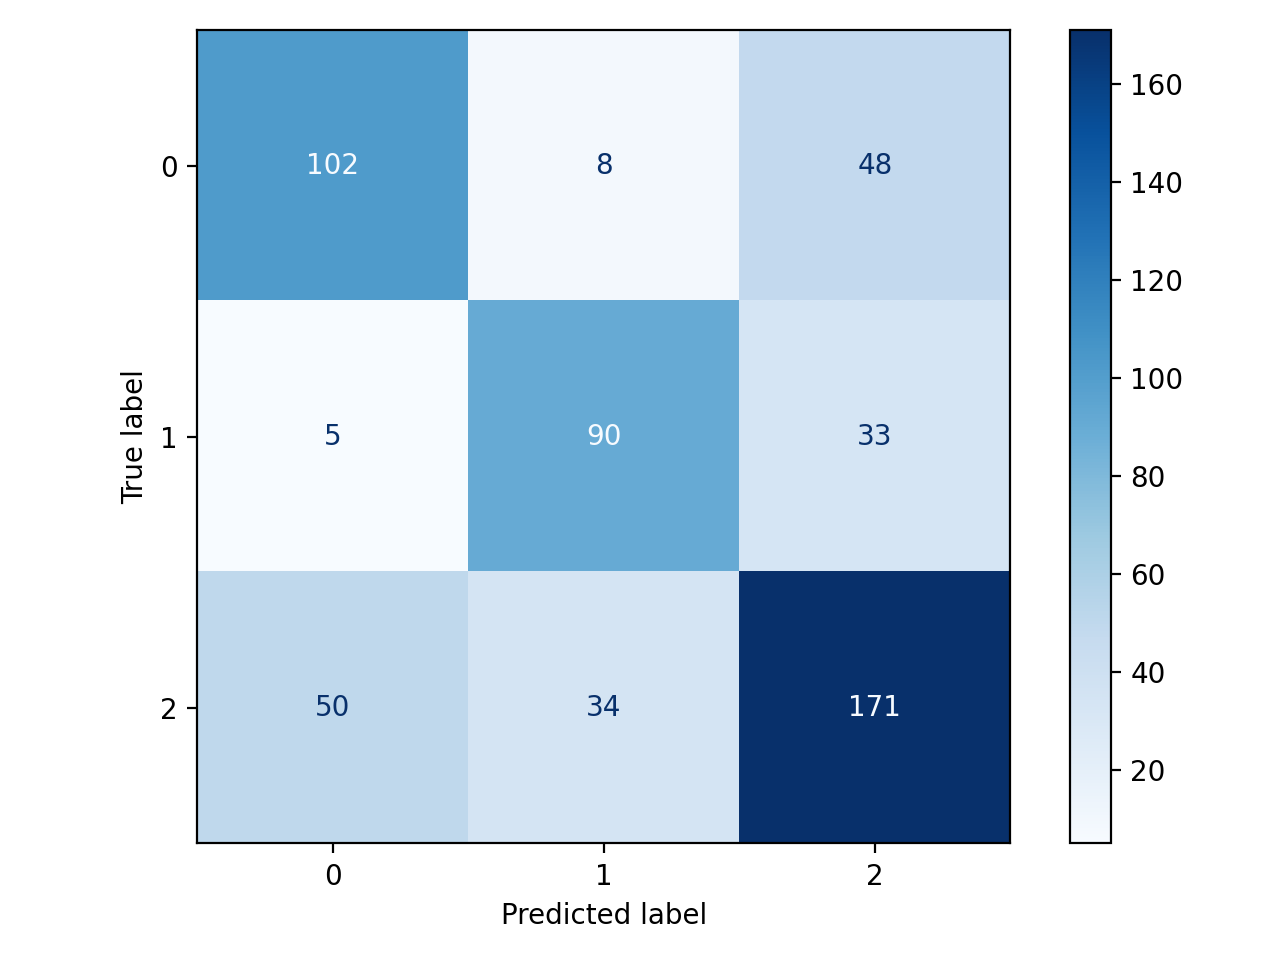
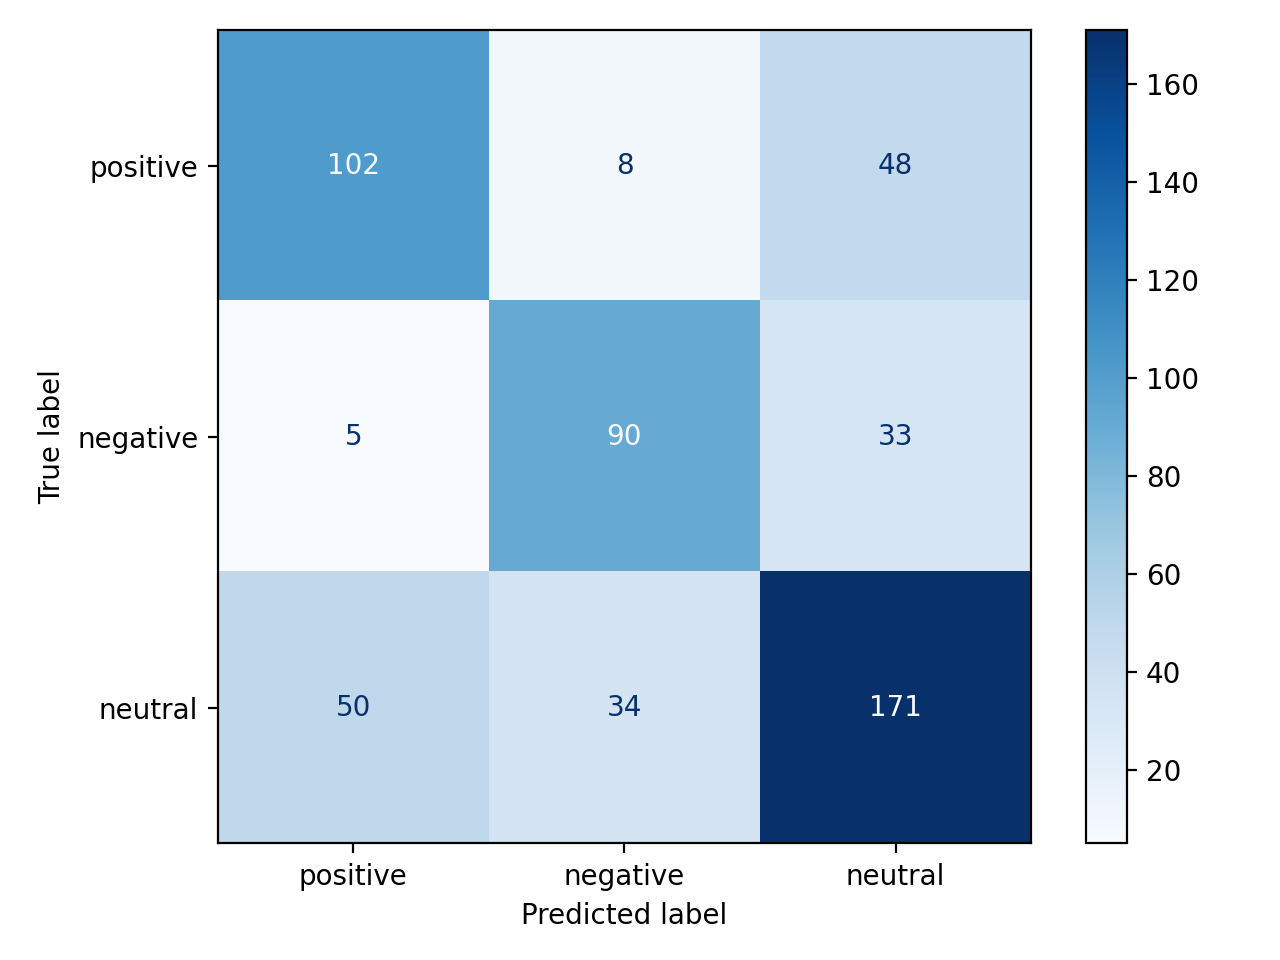
Add class names, tuning, significance tests; fix XLM-R 10% result

diff --git a/analyze.py b/analyze.py
@@ -1,30 +1,47 @@
-"""Builds results table, learning curve, confusion matrix, and wrong-prediction sample."""
-import glob, json, pandas as pd, matplotlib
+"""Builds the results tables, learning curve, confusion matrix and an error sample."""
+import glob, json, os, pandas as pd, matplotlib
 matplotlib.use("Agg")
 import matplotlib.pyplot as plt
 from sklearn.metrics import confusion_matrix, classification_report, ConfusionMatrixDisplay
 
 rows = [json.load(open(f)) for f in glob.glob("results/*.json")]
-df = pd.DataFrame(rows).sort_values(["model", "frac"])
+df = pd.DataFrame(rows)
+for col, default in [("seed", 42), ("lr", 2e-5), ("epochs", 4)]:
+    if col not in df: df[col] = default
+    df[col] = df[col].fillna(default)
+df = df.sort_values(["model", "frac", "lr", "epochs", "seed"])
 df.to_csv("results/summary.csv", index=False)
-print(df.to_string(index=False))
+
+default = df[(df.lr == 2e-5) & (df.epochs == 4) & (df.seed == 42)]
+print("== Default settings, seed 42 ==")
+print(default[["model", "frac", "acc", "macro_f1"]].to_string(index=False))
+
+tuned = df[(df.lr != 2e-5) | (df.epochs != 4)]
+if len(tuned):
+    cols = [c for c in ["model", "frac", "lr", "epochs", "val_macro_f1", "acc", "macro_f1"] if c in tuned]
+    print("\n== Tuned runs (choose by val_macro_f1, then report test) ==")
+    print(tuned[cols].to_string(index=False))
 
 plt.figure(figsize=(6, 4))
 for m in ["mbert", "xlmr", "indicbert"]:
-    d = df[(df.model == m) & (df.get("seed", 42).fillna(42) == 42)]
+    d = default[default.model == m]
     if len(d): plt.plot(d.frac * 100, d.macro_f1, marker="o", label=m)
 plt.xlabel("Training data (%)"); plt.ylabel("Macro-F1"); plt.legend(); plt.grid(alpha=.3)
 plt.tight_layout(); plt.savefig("results/learning_curve.png", dpi=200)
 
-full = df[df.frac == 1.0]
-full = full[full.model.isin(["mbert", "xlmr", "indicbert"])]
+names = {"0": "C0", "1": "C1", "2": "C2"}
+if os.path.exists("class_names.json"):
+    names.update(json.load(open("class_names.json")))
+labels = [names[str(i)] for i in range(3)]
+
+full = default[(default.frac == 1.0) & default.model.isin(["mbert", "xlmr", "indicbert"])]
 if len(full):
     best = full.sort_values("macro_f1").iloc[-1].model
     p = pd.read_csv(f"results/{best}_1.0_preds.csv")
     print("\nBest model:", best)
-    print(classification_report(p.true, p.pred))
-    ConfusionMatrixDisplay(confusion_matrix(p.true, p.pred)).plot(cmap="Blues")
+    print(classification_report(p.true, p.pred, target_names=labels))
+    ConfusionMatrixDisplay(confusion_matrix(p.true, p.pred), display_labels=labels).plot(cmap="Blues")
     plt.tight_layout(); plt.savefig("results/confusion_matrix.png", dpi=200)
     p[p.true != p.pred].sample(min(50, (p.true != p.pred).sum()), random_state=1)\
         .to_csv("results/errors_to_analyze.csv", index=False)
-    print("Wrote results/errors_to_analyze.csv - read these and group the error types.")
+    print("Wrote results/errors_to_analyze.csv")

diff --git a/significance.py b/significance.py
@@ -1,0 +1,38 @@
+"""Bootstrap 95% CIs, pairwise McNemar tests, and error rate by sentence length (full-data, seed 42)."""
+import os, numpy as np, pandas as pd
+from scipy.stats import binomtest
+from sklearn.metrics import f1_score
+
+MODELS = [m for m in ["mbert", "xlmr", "indicbert"] if os.path.exists(f"results/{m}_1.0_preds.csv")]
+P = {m: pd.read_csv(f"results/{m}_1.0_preds.csv") for m in MODELS}
+out = []
+def say(s=""):
+    print(s); out.append(s)
+
+rng = np.random.default_rng(0)
+say("Bootstrap 95% confidence intervals (1000 resamples of the test set)")
+for m in MODELS:
+    t, p = P[m].true.values, P[m].pred.values
+    accs, f1s = [], []
+    for _ in range(1000):
+        i = rng.integers(0, len(t), len(t))
+        accs.append((t[i] == p[i]).mean()); f1s.append(f1_score(t[i], p[i], average="macro"))
+    say(f"{m:10s} acc {np.mean(t == p):.3f} [{np.percentile(accs, 2.5):.3f}, {np.percentile(accs, 97.5):.3f}]   "
+        f"macro-F1 {f1_score(t, p, average='macro'):.3f} [{np.percentile(f1s, 2.5):.3f}, {np.percentile(f1s, 97.5):.3f}]")
+
+say("\nPairwise McNemar exact test (accuracy, same test examples)")
+for i, a in enumerate(MODELS):
+    for b in MODELS[i + 1:]:
+        oa, ob = (P[a].true == P[a].pred).values, (P[b].true == P[b].pred).values
+        n01, n10 = int((oa & ~ob).sum()), int((~oa & ob).sum())
+        pv = binomtest(n01, n01 + n10, 0.5).pvalue if n01 + n10 else 1.0
+        say(f"{a} vs {b}: only-{a} correct={n01}, only-{b} correct={n10}, p={pv:.4f}")
+
+best = max(MODELS, key=lambda m: f1_score(P[m].true, P[m].pred, average="macro"))
+d = P[best].copy()
+d["words"] = d.text.astype(str).str.split().str.len()
+d["bucket"] = pd.cut(d.words, [0, 8, 14, 1000], labels=["short (<=8 words)", "medium (9-14)", "long (15+)"])
+say(f"\nError rate by sentence length, {best}")
+g = d.groupby("bucket", observed=True).apply(lambda x: pd.Series({"n": len(x), "error_rate": (x.true != x.pred).mean()}))
+say(g.round(3).to_string())
+open("results/significance.txt", "w").write("\n".join(out))

diff --git a/finetune.py b/finetune.py
@@ -13,7 +13,12 @@ MODELS = {
 }
 name, frac = sys.argv[1], float(sys.argv[2])
 seed = int(sys.argv[3]) if len(sys.argv) > 3 else 42
+# optional overrides for tuning:  LR=5e-5 EPOCHS=10 python finetune.py xlmr 0.1
+lr = float(os.environ.get("LR", "2e-5"))
+epochs = int(os.environ.get("EPOCHS", "4"))
 tag = f"{name}_{frac}" + (f"_s{seed}" if seed != 42 else "")
+if "LR" in os.environ or "EPOCHS" in os.environ:
+    tag += f"_lr{os.environ.get('LR', '2e-5')}_ep{epochs}"
 
 tr = pd.read_csv("data/train.csv").sample(frac=frac, random_state=seed)
 va, te = pd.read_csv("data/validation.csv"), pd.read_csv("data/test.csv")
@@ -40,8 +45,8 @@ def metrics(p):
     return {"acc": accuracy_score(p.label_ids, preds),
             "macro_f1": f1_score(p.label_ids, preds, average="macro")}
 
-args = TrainingArguments(output_dir=f"results/tmp_{tag}", num_train_epochs=4,
-    per_device_train_batch_size=int(os.environ.get('BATCH','8')), per_device_eval_batch_size=16, gradient_accumulation_steps=2, learning_rate=2e-5,
+args = TrainingArguments(output_dir=f"results/tmp_{tag}", num_train_epochs=epochs,
+    per_device_train_batch_size=int(os.environ.get('BATCH','8')), per_device_eval_batch_size=16, gradient_accumulation_steps=2, learning_rate=lr,
     eval_strategy="epoch", save_strategy="no", seed=seed,
     fp16=torch.cuda.is_available(), report_to="none")
 
@@ -50,7 +55,9 @@ trainer = Trainer(model=model, args=args, train_dataset=enc(tr), eval_dataset=en
 trainer.train()
 out = trainer.predict(enc(te))
 preds = np.argmax(out.predictions, axis=1)
-res = {"model": name, "frac": frac, "seed": seed, **metrics(out)}
+val = trainer.evaluate()   # validation score, used to choose settings
+res = {"model": name, "frac": frac, "seed": seed, "lr": lr, "epochs": epochs,
+       "val_macro_f1": val["eval_macro_f1"], **metrics(out)}
 print(res)
 json.dump(res, open(f"results/{tag}.json", "w"))
 pd.DataFrame({"text": te.text, "true": te.label, "pred": preds}).to_csv(f"results/{tag}_preds.csv", index=False)

diff --git a/seeds_stats.py b/seeds_stats.py
@@ -1,0 +1,23 @@
+"""Mean +/- std over seeds (full-data runs) and a McNemar test, IndicBERT vs XLM-R."""
+import json, os, numpy as np, pandas as pd
+from scipy.stats import binomtest
+
+SEEDS = [42, 1, 2]
+def tag(m, s): return f"{m}_1.0" + ("" if s == 42 else f"_s{s}")
+
+print("Model        acc (mean +/- std)    macro-F1 (mean +/- std)   n_seeds")
+for m in ["mbert", "xlmr", "indicbert"]:
+    rs = [json.load(open(f"results/{tag(m, s)}.json")) for s in SEEDS if os.path.exists(f"results/{tag(m, s)}.json")]
+    if not rs: continue
+    a = np.array([r["acc"] for r in rs]); f = np.array([r["macro_f1"] for r in rs])
+    print(f"{m:10s}   {a.mean():.3f} +/- {a.std(ddof=1) if len(a)>1 else 0:.3f}      {f.mean():.3f} +/- {f.std(ddof=1) if len(f)>1 else 0:.3f}          {len(rs)}")
+
+print("\nMcNemar exact test, IndicBERT vs XLM-R (same test examples):")
+for s in SEEDS:
+    pa, pb = f"results/{tag('indicbert', s)}_preds.csv", f"results/{tag('xlmr', s)}_preds.csv"
+    if not (os.path.exists(pa) and os.path.exists(pb)): continue
+    a, b = pd.read_csv(pa), pd.read_csv(pb)
+    ok_a, ok_b = (a.true == a.pred).values, (b.true == b.pred).values
+    n01, n10 = int((ok_a & ~ok_b).sum()), int((~ok_a & ok_b).sum())
+    p = binomtest(n01, n01 + n10, 0.5).pvalue if n01 + n10 else 1.0
+    print(f"seed {s}: IndicBERT-only correct={n01}, XLM-R-only correct={n10}, p={p:.3f}")

diff --git a/check_labels.py b/check_labels.py
@@ -1,0 +1,12 @@
+"""Prints label counts and 10 random training sentences per label, so you can decide what each class means."""
+import pandas as pd
+d = pd.read_csv("data/train.csv")
+print(d.label.value_counts().sort_index(), "\n")
+print("Label ids in the CSV are 7, 8, 9. Models use 0, 1, 2 in the same order (7->0, 8->1, 9->2).\n")
+for i, l in enumerate(sorted(d.label.unique())):
+    print(f"=== CSV label {l}  (class id {i}) ===")
+    for t in d[d.label == l].text.sample(10, random_state=1):
+        print("  ", t[:120])
+    print()
+print("Now create class_names.json, for example:")
+print('  echo \'{"0":"<name for 7>","1":"<name for 8>","2":"<name for 9>"}\' > class_names.json')

diff --git a/READING_LIST.md b/READING_LIST.md
@@ -1,0 +1,24 @@
+# Starter reading list (verify every entry on Google Scholar before citing)
+
+I wrote these from memory. Check title, authors, venue, and year yourself before adding them to the paper.
+
+## Models and tools
+1. Devlin et al. (2019). BERT: Pre-training of Deep Bidirectional Transformers for Language Understanding. NAACL-HLT.
+2. Conneau et al. (2020). Unsupervised Cross-lingual Representation Learning at Scale (XLM-R). ACL.
+3. Doddapaneni et al. (2023). Towards Leaving No Indic Language Behind: Building Monolingual Corpora, Benchmark and Models for Indic Languages (IndicBERT v2, IndicXTREME). ACL.
+4. Kakwani et al. (2020). IndicNLPSuite: Monolingual Corpora, Evaluation Benchmarks and Pre-trained Multilingual Language Models for Indian Languages (IndicGLUE, IndicBERT). Findings of EMNLP.
+5. Khanuja et al. (2021). MuRIL: Multilingual Representations for Indian Languages. arXiv.
+6. Wolf et al. (2020). Transformers: State-of-the-Art Natural Language Processing. EMNLP (System Demonstrations).
+
+## Multilingual transfer and low-resource languages
+7. Pires, Schlinger, Garrette (2019). How Multilingual is Multilingual BERT? ACL.
+8. Wu and Dredze (2019). Beto, Bentz, Becas: The Surprising Cross-Lingual Effectiveness of BERT. EMNLP-IJCNLP.
+9. Joshi et al. (2020). The State and Fate of Linguistic Diversity and Inclusion in the NLP World. ACL.
+
+## Telugu sentiment (check the dataset source)
+10. Mukku and Mamidi (2017). ACTSA: Annotated Corpus for Telugu Sentiment Analysis. Workshop on Building Linguistically Generalizable NLP Systems. (Check whether IndicGLUE inltkh.te comes from this corpus, and cite the true source.)
+11. Search Google Scholar for "Telugu sentiment analysis" 2020 to 2026 and add 4 to 6 recent papers yourself. Read them first.
+
+## Methods you use
+12. Dodge et al. (2020). Fine-Tuning Pretrained Language Models: Weight Initializations, Data Orders, and Early Stopping. arXiv. (why several seeds matter)
+13. Dietterich (1998). Approximate Statistical Tests for Comparing Supervised Classification Learning Algorithms. Neural Computation. (McNemar test)
